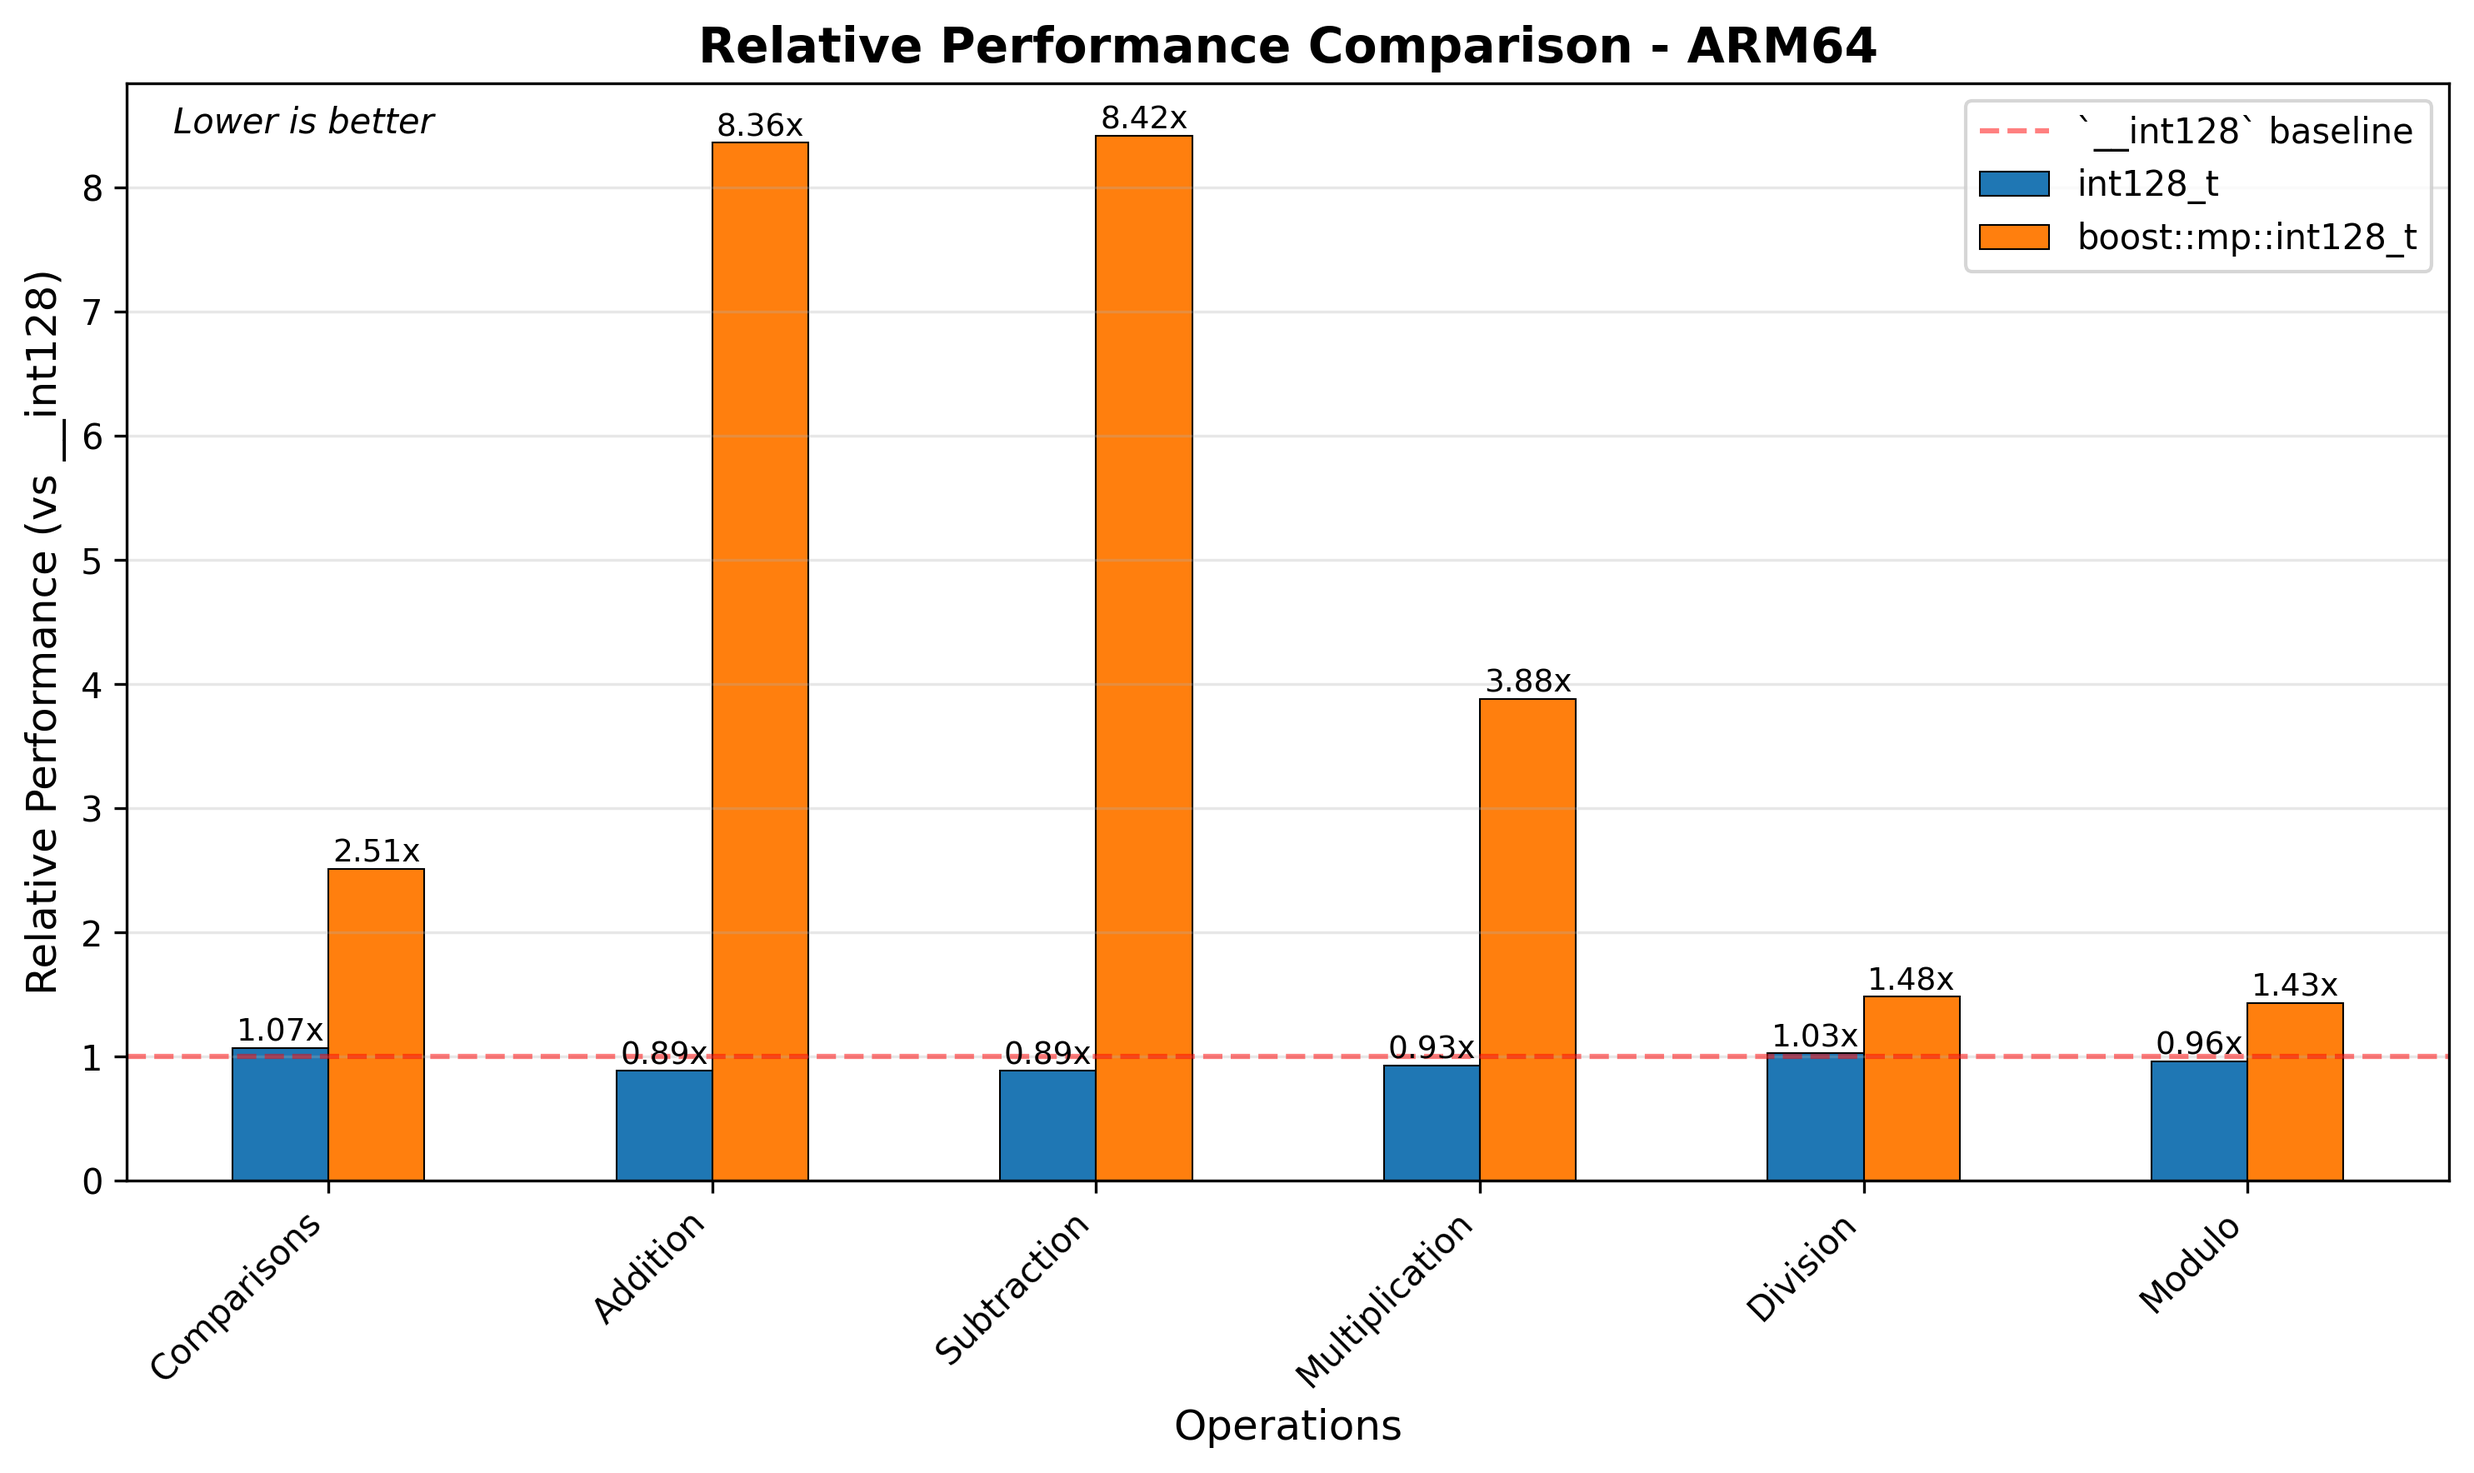
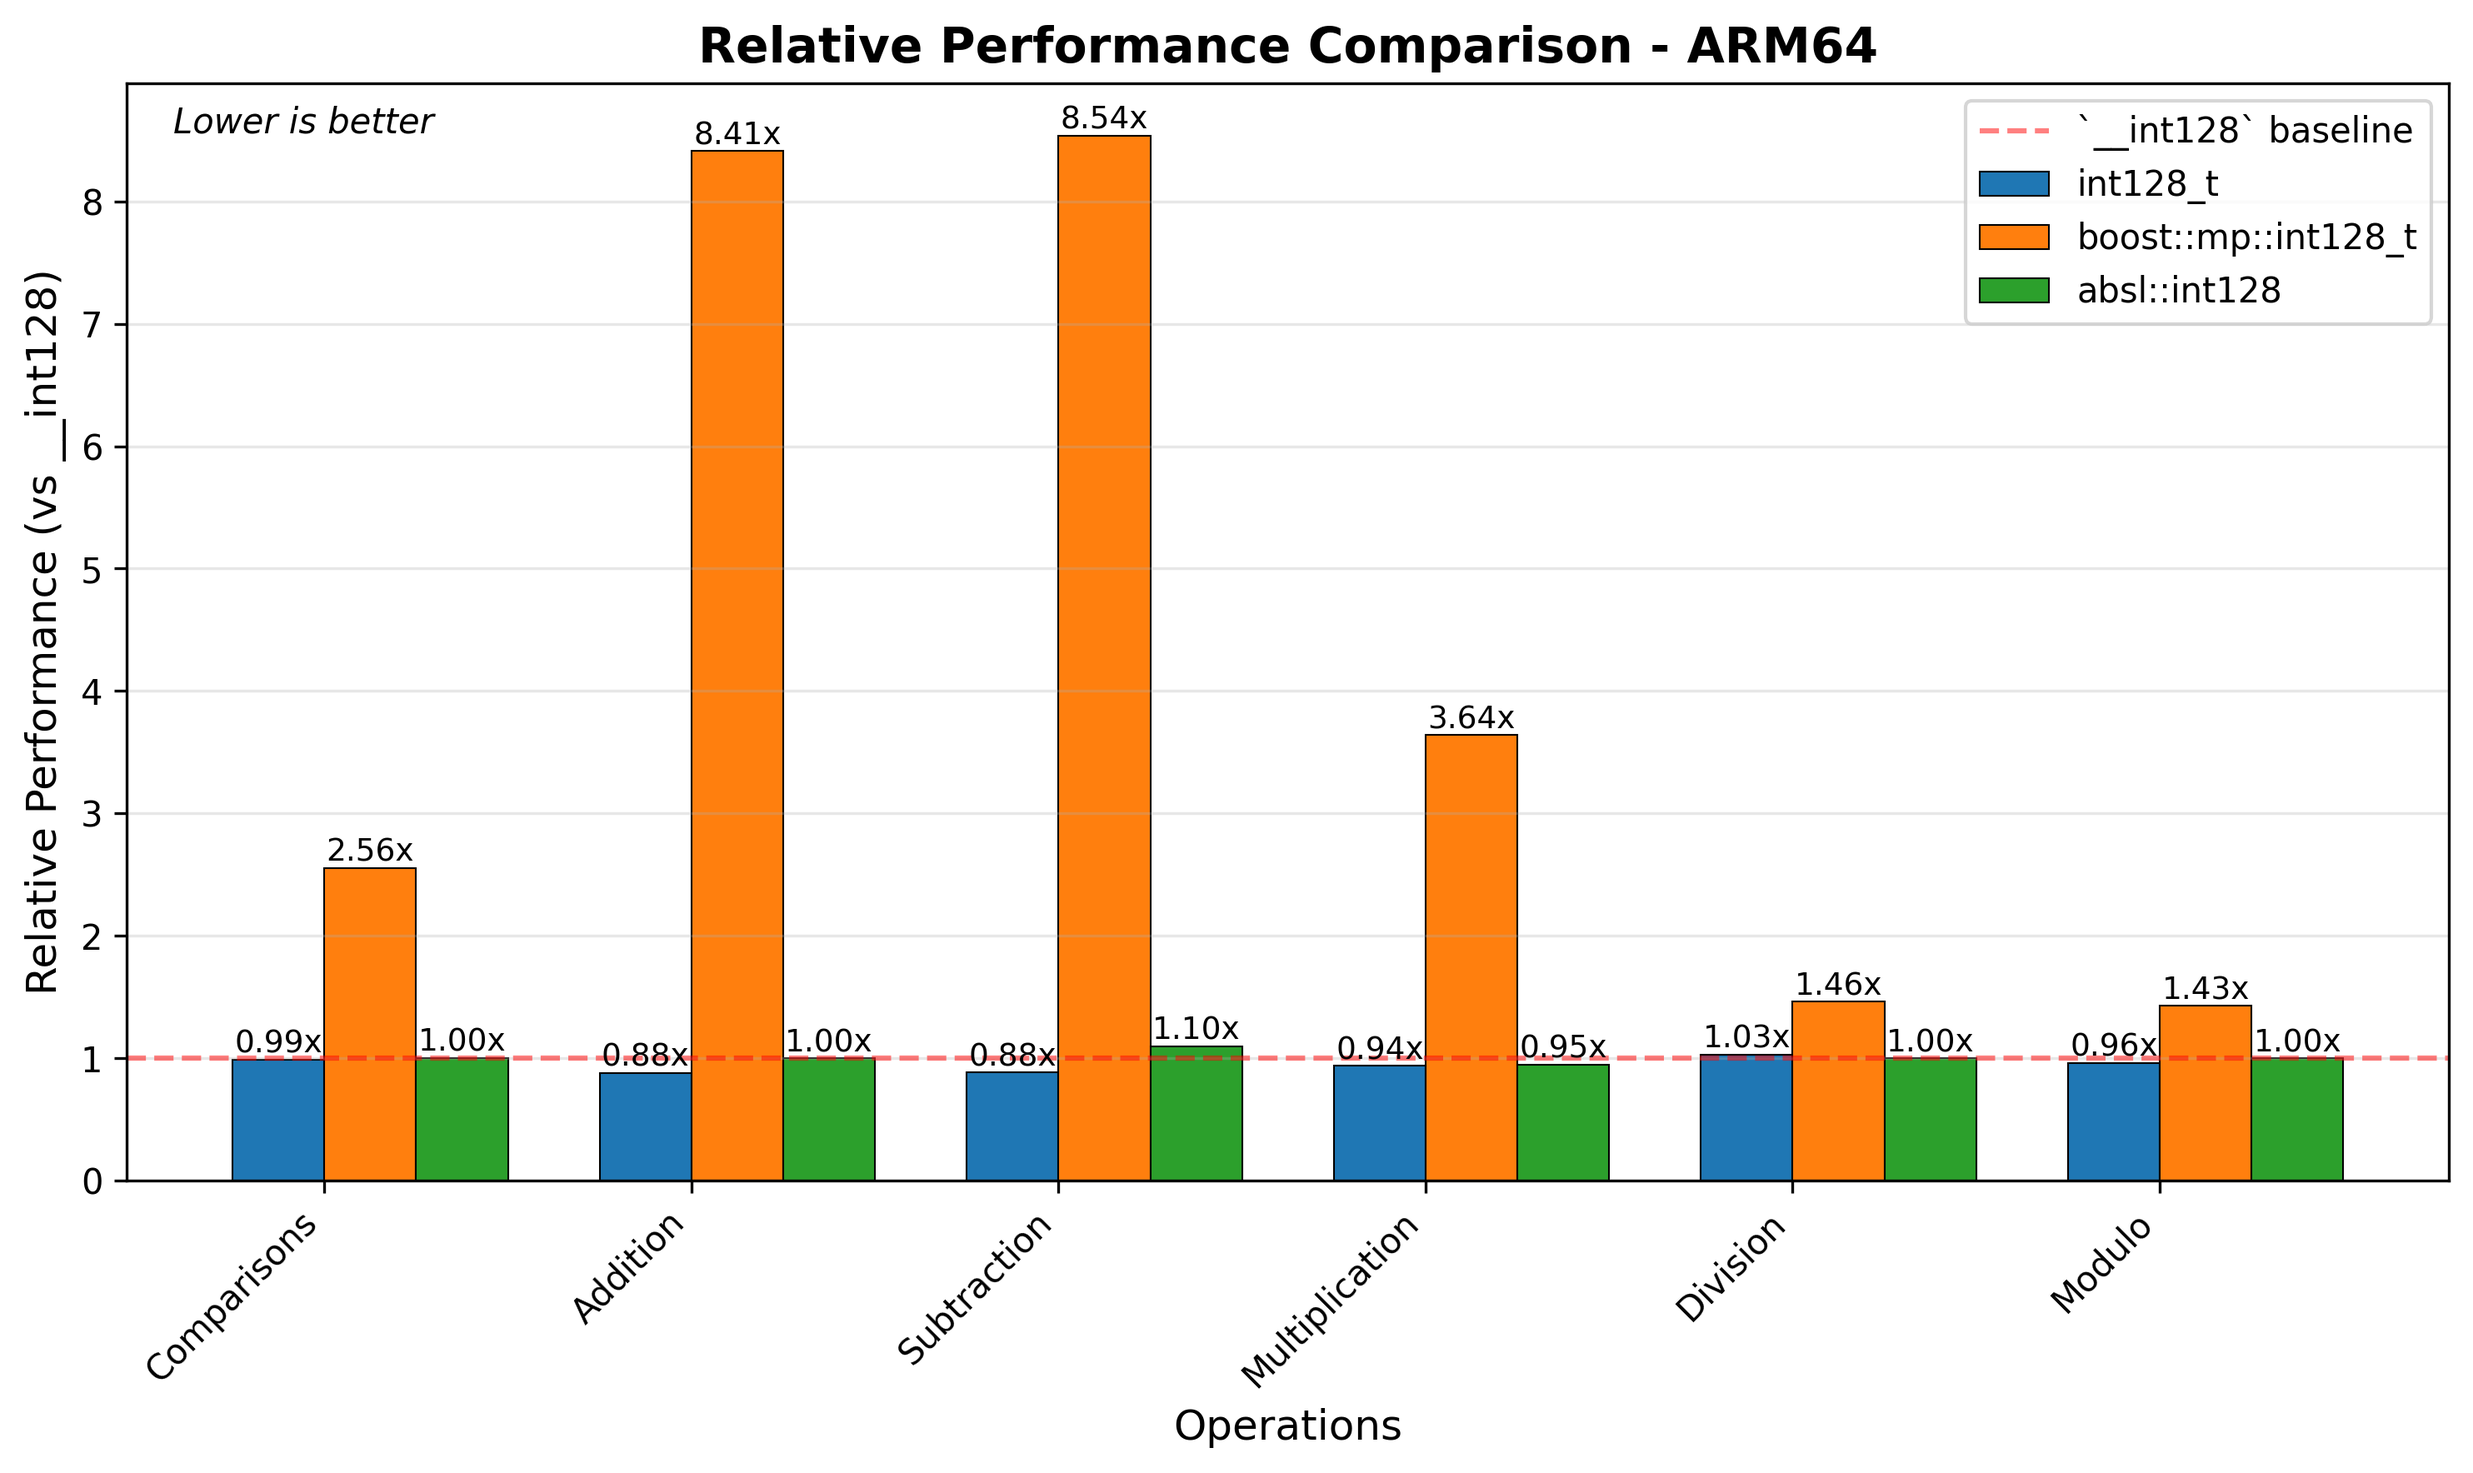
Update macOS ARM64 charts

diff --git a/doc/signed_plots.py b/doc/signed_plots.py
@@ -48,15 +48,16 @@ data = {
     'boost::mp::int128_t': [4318109, 925013, 1876834, 651209, 3719183, 4443402]
 }
 """
-"""
+
 # macos ARM
 data = {
     'Operation': ['Comparisons', 'Addition', 'Subtraction', 'Multiplication', 'Division', 'Modulo'],
-    '`__int128`': [134803, 20133, 20156, 19974, 649380, 708247],
-    'int128_t': [144313, 17820, 17864, 18572, 666749, 681991],
-    'boost::mp::int128_t': [338665, 168326, 169666, 77514, 962183, 1014055]
+    '`__int128`': [133275, 20203, 20203, 21496, 662767, 719179],
+    'int128_t': [131953, 17797, 17832, 20202, 682891, 692509],
+    'boost::mp::int128_t': [340555, 169909, 172497, 78269, 969277, 1026090],
+    'absl::int128': [133509, 20208, 22199, 20364, 663602, 717897]
 }
-"""
+
 """
 # MSVC 14.3 - ARM64
 data = {
@@ -75,7 +76,7 @@ data = {
     'boost::mp::int128_t': [4854983, 2645943, 2925784, 3887479, 6437280, 6236026]
 }
 """
-
+"""
 # MSVC 14.3 - x86
 data = {
     'Operation': ['Comparisons', 'Addition', 'Subtraction', 'Multiplication', 'Division', 'Modulo'],
@@ -83,7 +84,7 @@ data = {
     'int128_t': [3520950, 212116, 210354, 2595285, 5516460, 5842785],
     'boost::mp::int128_t': [7877534, 3477656, 4108539, 7030276, 10229356, 9069360]
 }
-
+"""
 df = pd.DataFrame(data)
 
 # Function to determine color based on ranking
@@ -121,7 +122,7 @@ for i, (idx, row) in enumerate(df.iterrows()):
 
 ax1.set_xlabel('Operations', fontsize=12)
 ax1.set_ylabel('Time (nanoseconds)', fontsize=12)
-ax1.set_title('MSVC 14.3 - x86_32 Benchmark Results', fontsize=14, fontweight='bold')
+ax1.set_title('Clang 20.1 - ARM64 Benchmark Results', fontsize=14, fontweight='bold')
 ax1.set_xticks(x)
 ax1.set_xticklabels(operations, rotation=45, ha='right')
 ax1.legend(loc='upper left')
@@ -150,7 +151,7 @@ for i, impl in enumerate(implementations):
 
 ax2.set_xlabel('Operations', fontsize=12)
 ax2.set_ylabel('Time (nanoseconds) - Log Scale', fontsize=12)
-ax2.set_title('MSVC 14.3 - x86_32 Benchmark Results (Log Scale)', fontsize=14, fontweight='bold')
+ax2.set_title('Clang 20.1 - ARM64 Benchmark Results (Log Scale)', fontsize=14, fontweight='bold')
 ax2.set_yscale('log')
 ax2.set_xticks(x)
 ax2.set_xticklabels(operations, rotation=45, ha='right')
@@ -158,7 +159,7 @@ ax2.legend(loc='upper left')
 ax2.grid(axis='y', alpha=0.3, which='both')
 
 plt.tight_layout()
-plt.savefig('x86_benchmarks.png', dpi=300, bbox_inches='tight')
+plt.savefig('ARM64_benchmarks.png', dpi=300, bbox_inches='tight')
 plt.show()
 
 # Create a normalized performance chart
@@ -167,11 +168,11 @@ fig3, ax3 = plt.subplots(figsize=(10, 6))
 # Normalize data relative to __int128
 normalized_df = df.copy()
 for col in implementations:
-    normalized_df[col] = df[col] / df['std::_Signed128']
+    normalized_df[col] = df[col] / df['`__int128`']
 
 # Plot normalized bars
 for i, impl in enumerate(implementations):
-    if impl == 'std::_Signed128':
+    if impl == '`__int128`':
         continue  # Skip since it's always 1.0
     bars = ax3.bar(x + (i-1.5)*width, normalized_df[impl], width,
                    label=impl, edgecolor='black', linewidth=0.5)
@@ -183,11 +184,11 @@ for i, impl in enumerate(implementations):
                  f'{height:.2f}x', ha='center', va='bottom', fontsize=9)
 
 # Add reference line at 1.0
-ax3.axhline(y=1.0, color='red', linestyle='--', alpha=0.5, label='std::_Signed128 baseline')
+ax3.axhline(y=1.0, color='red', linestyle='--', alpha=0.5, label='`__int128` baseline')
 
 ax3.set_xlabel('Operations', fontsize=12)
 ax3.set_ylabel('Relative Performance (vs __int128)', fontsize=12)
-ax3.set_title('Relative Performance Comparison - x86_32', fontsize=14, fontweight='bold')
+ax3.set_title('Relative Performance Comparison - ARM64', fontsize=14, fontweight='bold')
 ax3.set_xticks(x)
 ax3.set_xticklabels(operations, rotation=45, ha='right')
 ax3.legend()
@@ -198,7 +199,7 @@ ax3.text(0.02, 0.98, 'Lower is better', transform=ax3.transAxes,
          fontsize=10, verticalalignment='top', style='italic')
 
 plt.tight_layout()
-plt.savefig('x86_relative_performance.png', dpi=300, bbox_inches='tight')
+plt.savefig('ARM64_relative_performance.png', dpi=300, bbox_inches='tight')
 plt.show()
 
 # Generate summary statistics
